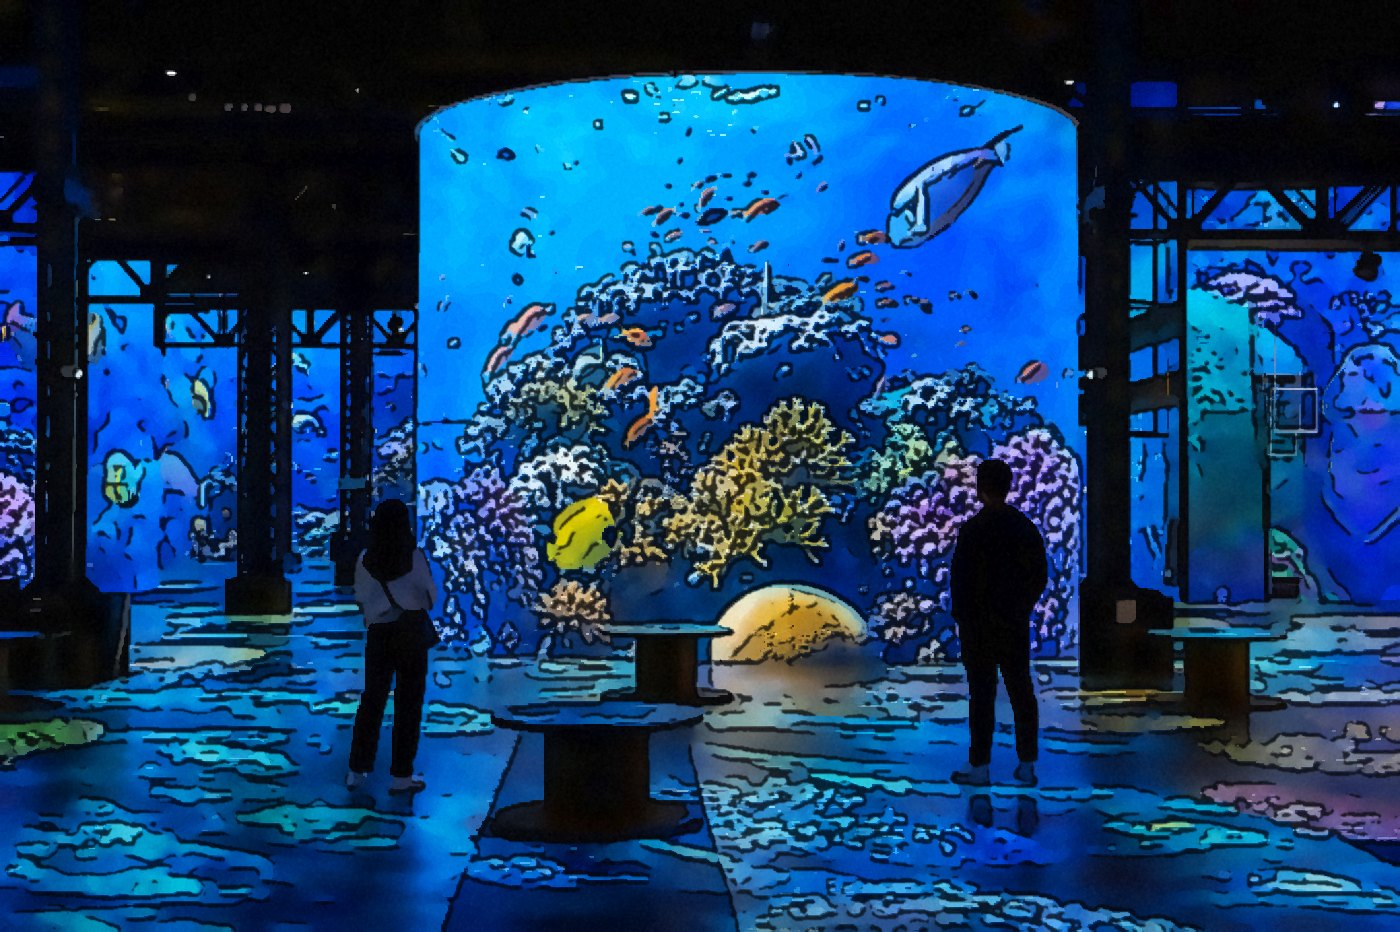
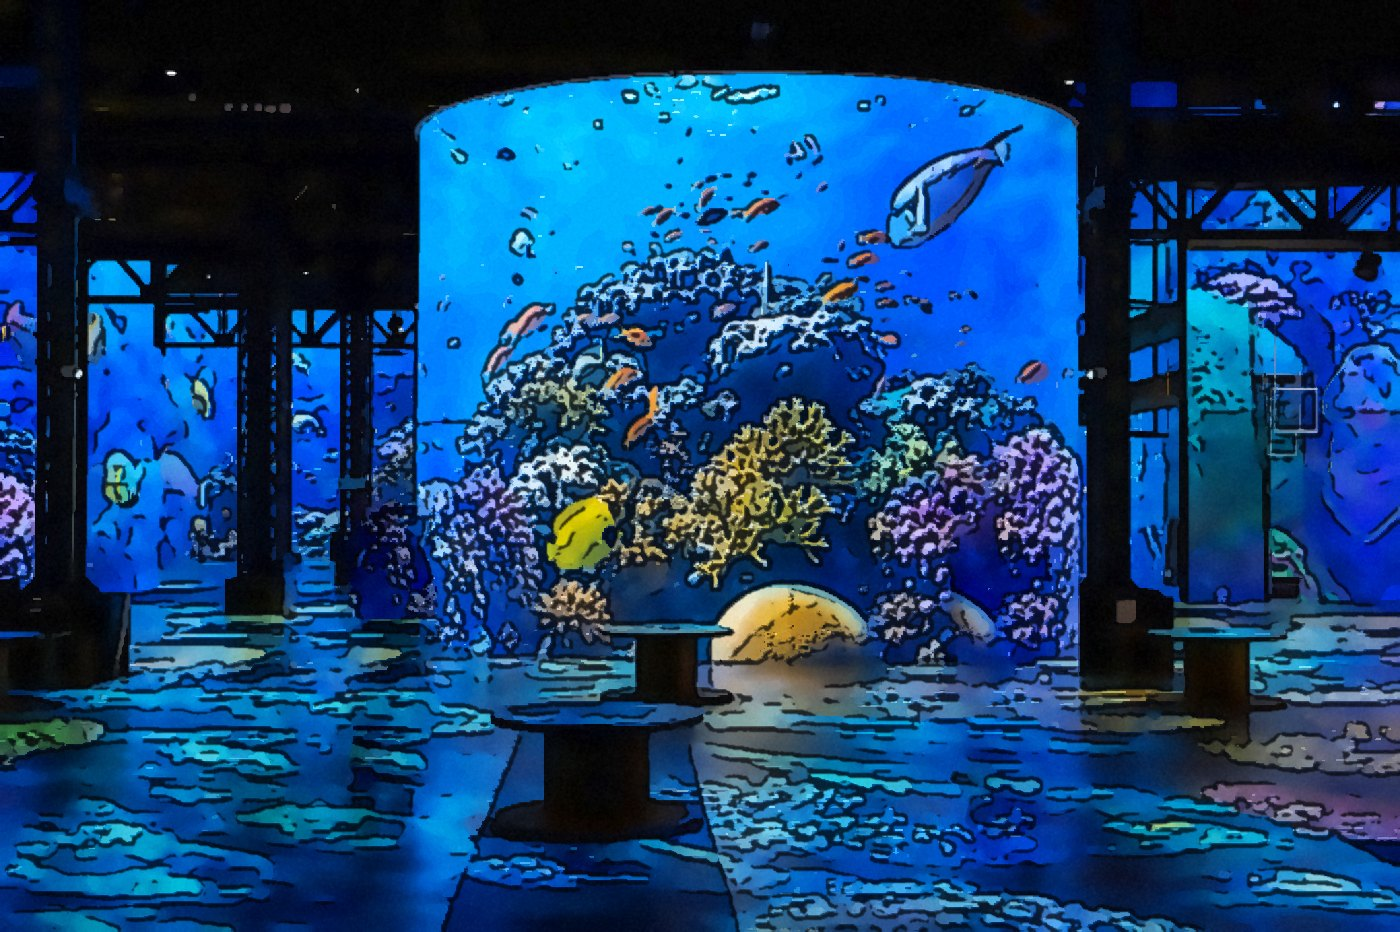
温泉大厅、休息室背景转手绘画风；古代神殿去掉人物
Claude-Session: https://claude.ai/code/session_01JDiALkpbsdjX6YMkLW4X8m

Changed region(s): [[0.6757, 0.4667, 0.7679, 0.9024], [0.2457, 0.529, 0.3379, 0.8712], [0.1843, 0.6223, 0.215, 0.7157]]

diff --git a/js/ui/game.js b/js/ui/game.js
@@ -3815,7 +3815,7 @@
     }
     $('pg-explore').innerHTML = exHead(on ? '正在泡温泉：留在这个页面，精灵们就会一直涨经验。离开就结束这一次。' : '把精灵放进温泉，点「开始泡温泉」。泡温泉期间要一直留在这个页面。') +
       '<div class="crumb"><button type="button" class="btn ghost" id="spa-back">‹ 返回温泉生活区</button><b>咸宁 · 温泉大厅</b></div>' +
-      '<div class="spa-hall' + (on ? ' soaking' : '') + '" style="background-image:url(images/backgrounds/spa_hall.webp)">' + hud +
+      '<div class="spa-hall' + (on ? ' soaking' : '') + '" style="background-image:url(images/backgrounds/spa_hall.jpg)">' + hud +
         '<div class="spa-steam" aria-hidden="true"><i></i><i></i><i></i><i></i></div>' +
         '<div class="spa-pool"><div class="spa-wave" aria-hidden="true"></div>' + floats +
         (on ? '<img class="spa-player" src="images/characters/spa_' + gender() + '.webp" alt="' + esc(acc.name) + '">' : '') + '</div></div>' +
@@ -3828,7 +3828,7 @@
     var old = $('spa-room'); if (old) old.remove();
     var price = spaSlotPrice();
     var d = document.createElement('div'); d.className = 'soc-dlg spa-room-dlg'; d.id = 'spa-room';
-    d.innerHTML = '<div class="soc-box spa-room" role="dialog" aria-modal="true" aria-label="温泉休息室" style="background-image:linear-gradient(rgba(20,16,10,.35),rgba(20,16,10,.7)),url(images/backgrounds/spa_lounge.webp)">' +
+    d.innerHTML = '<div class="soc-box spa-room" role="dialog" aria-modal="true" aria-label="温泉休息室" style="background-image:linear-gradient(rgba(20,16,10,.35),rgba(20,16,10,.7)),url(images/backgrounds/spa_lounge.jpg)">' +
       '<h2>温泉休息室</h2><p class="spa-rm-sub">能量 <b>' + fmt(acc.energy || 0) + '</b></p><div class="spa-goods">' +
       '<article class="spa-good"><b>经验翻倍橘子汁</b><p>冰镇的橘子汁。喝下后 ' + SPA_JUICE.min + ' 分钟内，温泉经验翻倍（可以叠加时长）。</p>' + (juiceOn() ? '<p class="hint">生效中，还剩 ' + hms(acc.spa.juice - Date.now()) + '</p>' : '') +
         '<button type="button" class="btn primary" data-spabuy="juice"' + ((acc.energy || 0) >= SPA_JUICE.price ? '' : ' disabled') + '>' + fmt(SPA_JUICE.price) + ' 能量 · 来一杯</button></article>' +

diff --git a/js/data/assets.js b/js/data/assets.js
@@ -143,7 +143,7 @@ var BG = {
   "kb_isle": "images/backgrounds/kb_isle.jpg",
   "kb_lookup": "images/backgrounds/kb_lookup.jpg",
   "kb_shoal": "images/backgrounds/kb_shoal.jpg",
-  "kb_temple": "images/backgrounds/kb_temple.jpg",
+  "kb_temple": "images/backgrounds/kb_temple.jpg?v=2",
   "kb_floor": "images/backgrounds/kb_floor.jpg",
   "kb_abyss": "images/backgrounds/kb_abyss.jpg",
   "mayar": "images/backgrounds/mayar.jpg",
